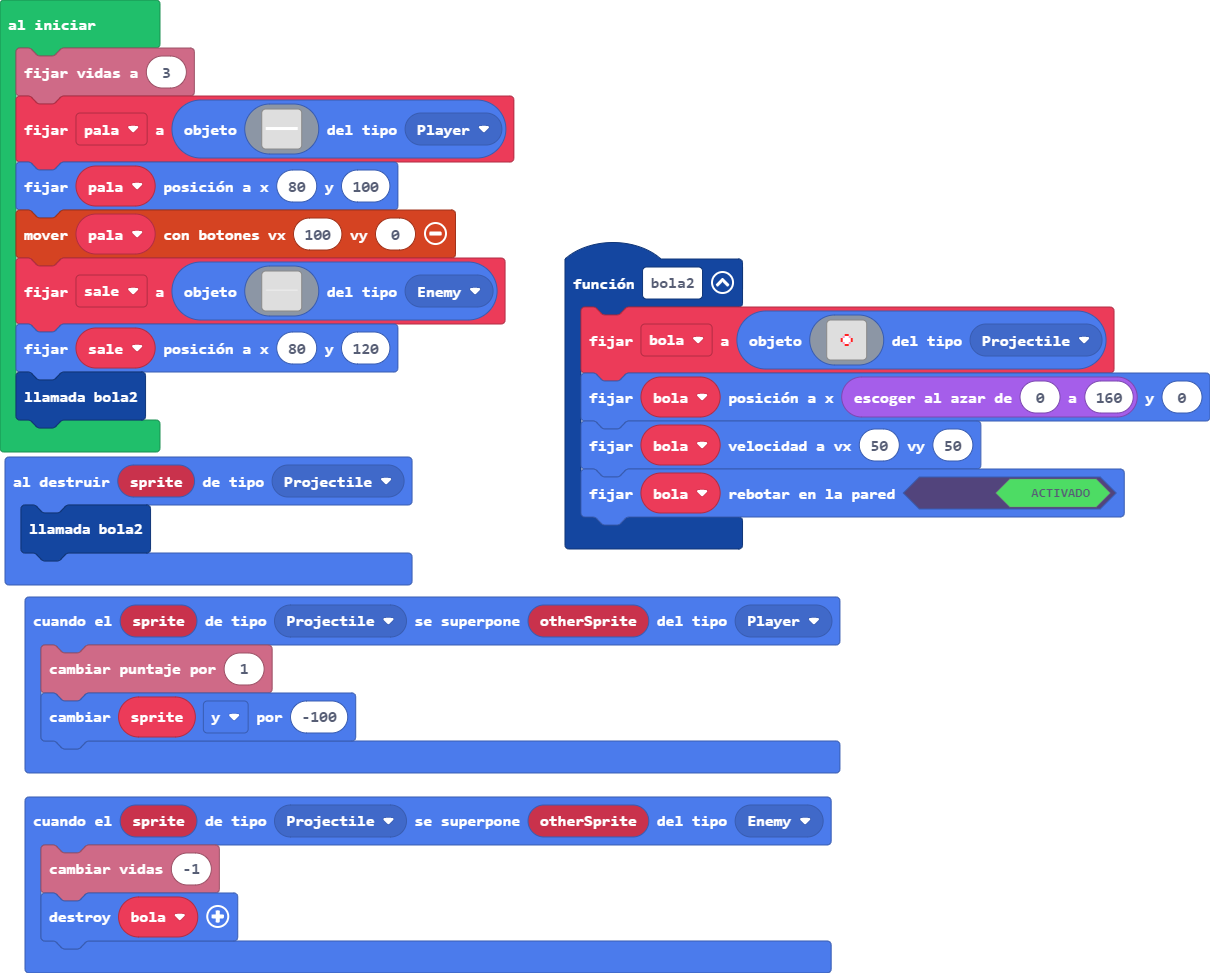
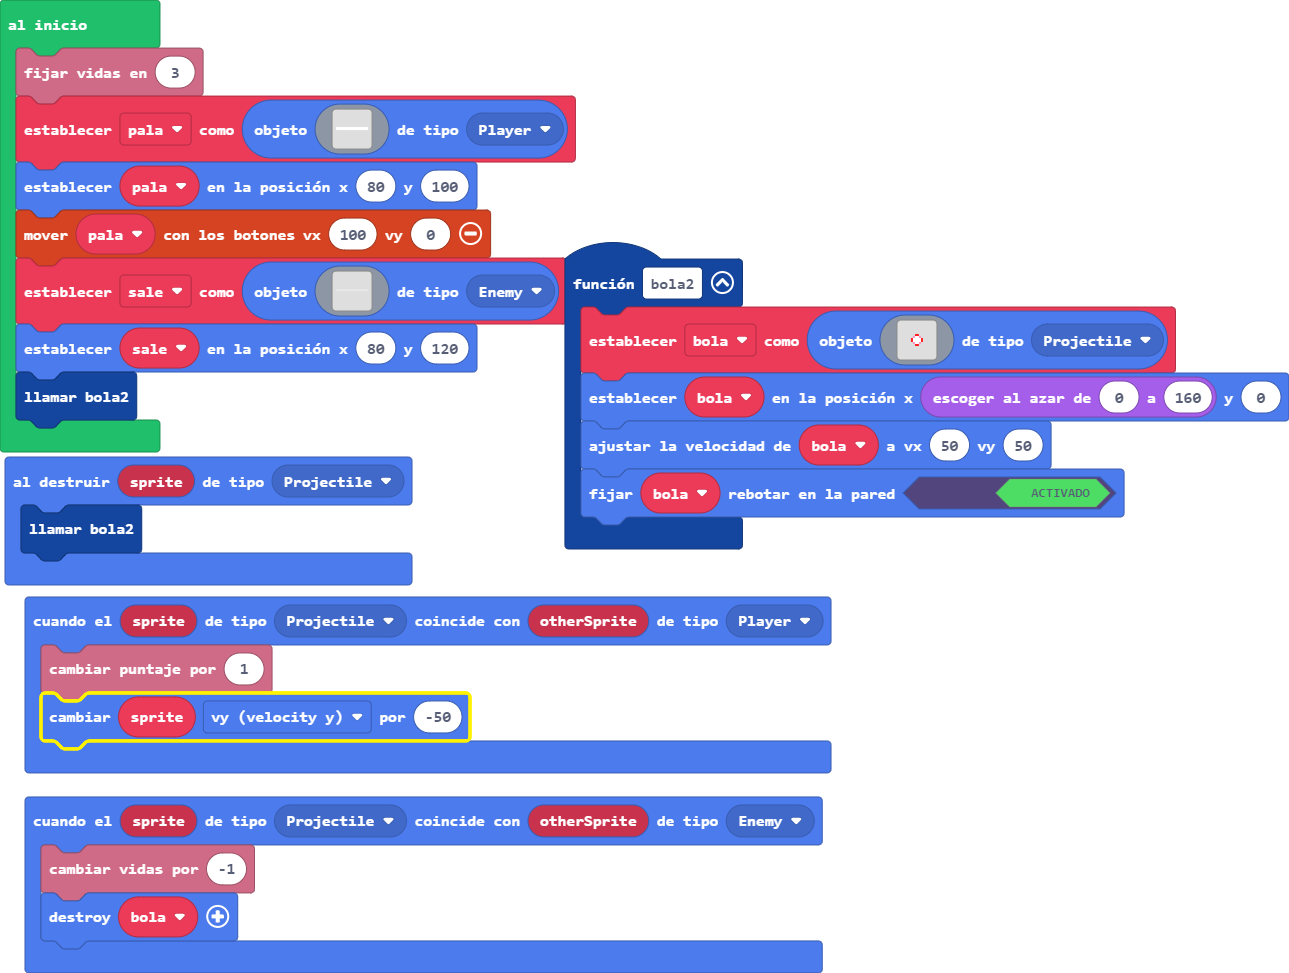
Actualizar pxt.json, main.blocks, main.ts

diff --git a/main.ts b/main.ts
@@ -1,6 +1,6 @@
 sprites.onOverlap(SpriteKind.Projectile, SpriteKind.Player, function (sprite, otherSprite) {
     info.changeScoreBy(1)
-    sprite.y += -100
+    sprite.vy += -50
 })
 function bola2 () {
     bola = sprites.create(img`
